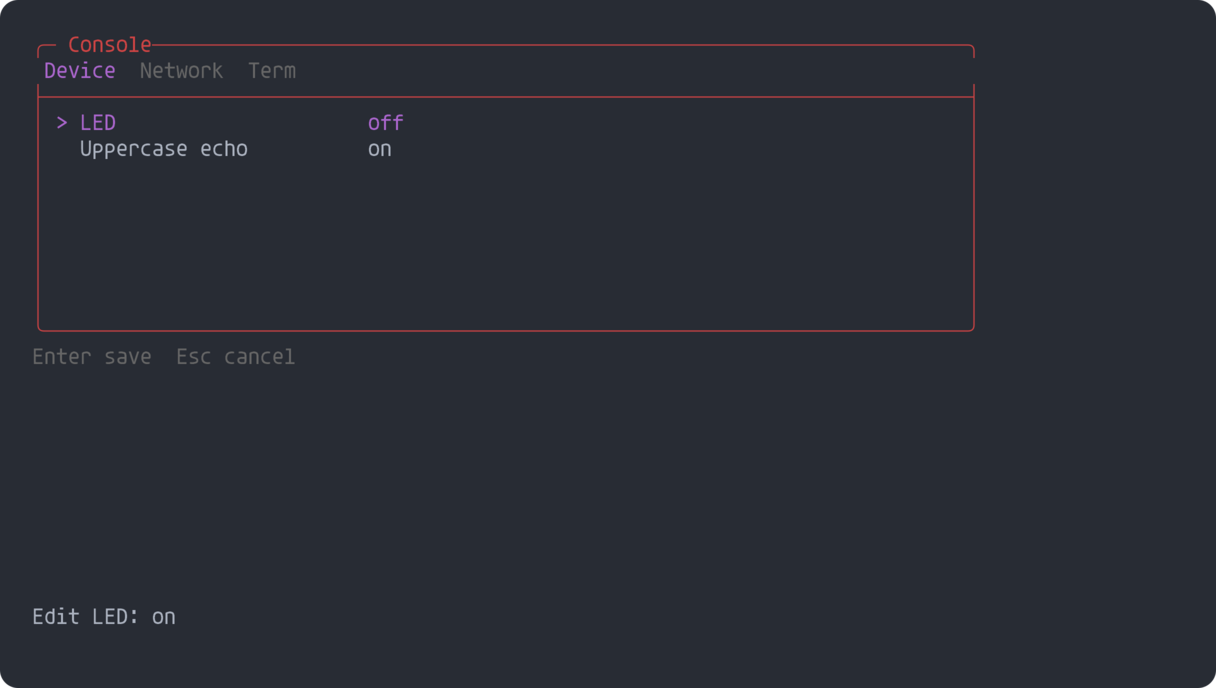
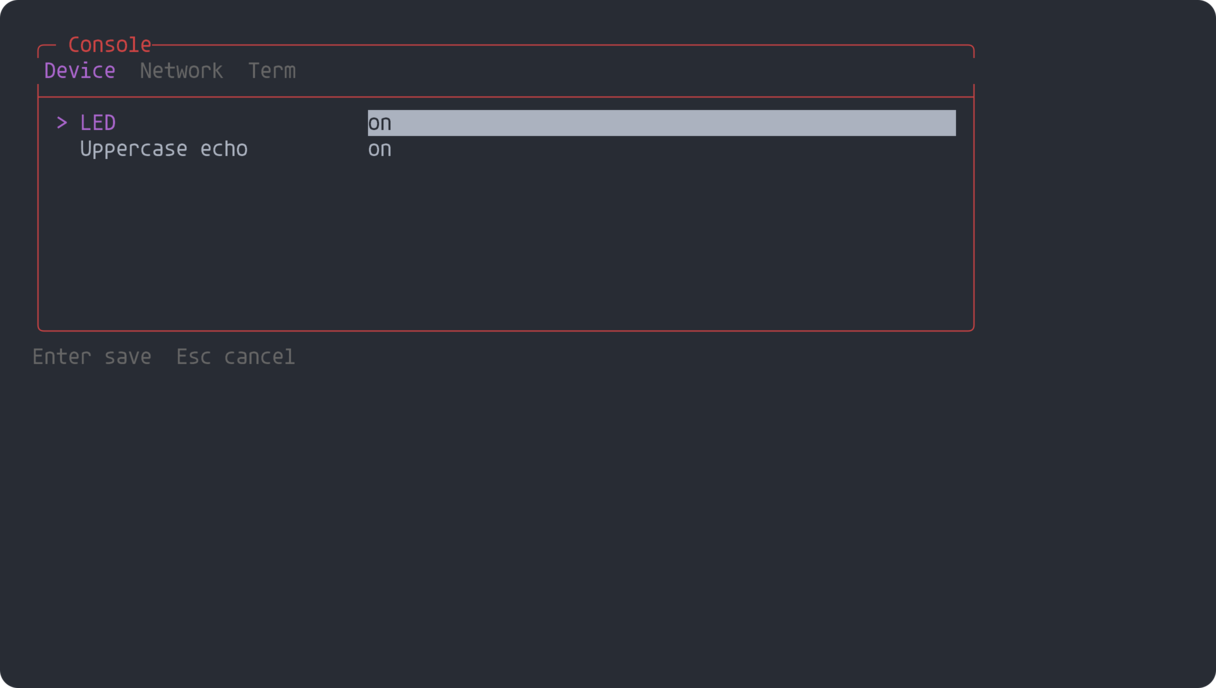
Use shared in-cell editing for the serial device console

Changed region(s): [[0.2812, 0.1526, 0.8125, 0.2137], [0.0312, 0.8852, 0.1562, 0.9157]]

diff --git a/SerialConsole/src/portable-shell/portable_device_view.hpp b/SerialConsole/src/portable-shell/portable_device_view.hpp
@@ -7,6 +7,9 @@
 #ifndef PS_DEVICE_VIEW_DIAGNOSTICS
 #define PS_DEVICE_VIEW_DIAGNOSTICS 1
 #endif
+#ifndef PS_DEVICE_VIEW_INLINE_EDIT
+#define PS_DEVICE_VIEW_INLINE_EDIT 1
+#endif
 // Allocation-free device presentation with filtering, deterministic state,
 // bounded rendering and sanitized text. The caller owns application behavior.
 // Snapshots are observations; only the caller's common router may authorize
@@ -330,7 +333,7 @@ class DeviceView {
         if (!dirty_ && !force)
             return false;
         dirty_ = false;
-        if (editing_ && !full_ && !force) {
+        if (editing_ && ansi_ && columns_ >= 40 && lines_ >= 16 && !full_ && !force) {
             editLine(write);
             return true;
         }
@@ -428,7 +431,10 @@ class DeviceView {
                     out.raw(row.editable ? "  " : "- ");
                     if (ansi_)
                         out.raw(selected ? "\x1b[1;35m" : "\x1b[0m");
-                    out.field(row.secret ? "[hidden]" : row.value, width - labelWidth - 9);
+                    if (PS_DEVICE_VIEW_INLINE_EDIT && editing_ && selected)
+                        editValue(out, width - labelWidth - 9);
+                    else
+                        out.field(row.secret ? "[hidden]" : row.value, width - labelWidth - 9);
                     if (ansi_)
                         out.raw("\x1b[0m");
                 } else
@@ -537,6 +543,14 @@ class DeviceView {
             out.raw("\x1b[0m");
         out.safe(notice_, width - 1);
         out.raw("\r\n");
+        if (PS_DEVICE_VIEW_INLINE_EDIT) {
+            if (ansi_) {
+                out.raw("\x1b[J");
+                if (editing_)
+                    editLine(write);
+            }
+            return true;
+        }
         if (ansi_) {
             out.raw("\x1b[J");
             char position[24];
@@ -873,6 +887,24 @@ class DeviceView {
         dirty_ = true;
         return false;
     }
+    size_t editCapacity() const {
+        const size_t width = columns_ < 40 ? 40 : columns_ > 100 ? 100 : columns_;
+        return width - (width < 60 ? 12 : 22) - 9;
+    }
+    size_t editStart(size_t capacity) const {
+        return cursor_ >= capacity ? cursor_ - capacity + 1 : 0;
+    }
+    template <typename Write> void editValue(Writer<Write> &out, size_t capacity) const {
+        const size_t length = ps_text_length(draft_), start = editStart(capacity);
+        char visible[101]{};
+        for (size_t i = 0; i < capacity && start + i < length; ++i)
+            visible[i] = secret_ ? '*' : draft_[start + i];
+        if (ansi_)
+            out.raw("\x1b[7m");
+        out.field(visible, capacity);
+        if (ansi_)
+            out.raw("\x1b[0m");
+    }
     template <typename Write> void editText(Writer<Write> &out) const {
         char label[19];
         terminalText(label, sizeof(label), editLabel_);
@@ -895,10 +927,28 @@ class DeviceView {
         }
     }
     unsigned editorRow() const {
+        if (PS_DEVICE_VIEW_INLINE_EDIT) {
+            const unsigned visible = page_ == Led ? (lines_ < 24 ? 1 : 4)
+                                      : lines_ < 24 ? 4 : 8;
+            return 4 + (selected_ < visible ? selected_ : visible - 1);
+        }
         return lines_ > 24 ? 23 : lines_ - 1;
     }
     template <typename Write> void editLine(Write write) const {
         Writer<Write> out(write, ansi_);
+        if (PS_DEVICE_VIEW_INLINE_EDIT) {
+            const unsigned column = (columns_ < 60 ? 12 : 22) + 7;
+            char position[24];
+            ps_terminal_format(position, sizeof(position), "\x1b[%u;%uH", editorRow(), column);
+            out.raw(position);
+            const size_t capacity = editCapacity();
+            editValue(out, capacity);
+            ps_terminal_format(position, sizeof(position), "\x1b[%u;%uH", editorRow(),
+                               column + static_cast<unsigned>(cursor_ - editStart(capacity)));
+            out.raw(position);
+            out.raw("\x1b[?25h");
+            return;
+        }
         if (ansi_) {
             char position[24];
             ps_terminal_format(position, sizeof(position), "\x1b[%u;1H\x1b[2K", editorRow());

diff --git a/tests/view_checks.cpp b/tests/view_checks.cpp
@@ -18,14 +18,29 @@ int main() {
 #else
     assert(out.find("\xe2\x86\x91/\xe2\x86\x93") != std::string::npos);
 #endif
+    out.clear(); feed(&s, "\r\025on");
+    assert(!led && writes == 0 && portable_console_ui.view.editing());
+#if PS_DEVICE_VIEW_INLINE_EDIT
+    assert(out.find("\033[4;29H") != std::string::npos && out.find("Edit LED:") == std::string::npos);
+#else
+    assert(out.find("Edit LED:") != std::string::npos);
+#endif
+    feed(&s, "\033"); portable_console_tick(&s, 35); portable_console_view_tick(&s);
+    assert(!led && writes == 0 && !portable_console_ui.view.editing());
     feed(&s, "\r\025on\r"); assert(led && writes == 1);
     feed(&s, "\t"); assert(portable_console_ui.view.page() == PortableShell::DeviceView::Network);
     feed(&s, "\r"); assert(writes == 1 && !portable_console_ui.view.editing());
     feed(&s, "\t"); assert(portable_console_ui.view.page() == PortableShell::DeviceView::TerminalPage);
     feed(&s, "\r\025off\r"); assert(!s.editor.upper && writes == 1);
-    feed(&s, "\033"); portable_console_tick(&s, 35); portable_console_view_tick(&s);
+    feed(&s, "\033"); portable_console_tick(&s, 70); portable_console_view_tick(&s);
     assert(s.mode == PS_CONSOLE_PROMPT && out.find("\033[?1049l") != std::string::npos);
     feed(&s, "plain\r"); out.clear(); feed(&s, "view\r");
     assert(out.find('\033') == std::string::npos);
+    out.clear(); feed(&s, "\r\025off");
+    assert(out.find('\033') == std::string::npos);
+#if PS_DEVICE_VIEW_INLINE_EDIT
+    assert(out.find("Edit LED:") == std::string::npos);
+#endif
+    assert(out.find("off") != std::string::npos && led && writes == 1);
     std::printf("SerialConsole view tabs/edit/exit checks passed; view=%u bytes\n", (unsigned)sizeof portable_console_ui);
 }

diff --git a/VALIDATION.md b/VALIDATION.md
@@ -1,5 +1,19 @@
 # Integration evidence — 2026-10-29
 
+## 2.2 in-cell editing
+
+The shared device view now edits values inside the selected table cell. Drafts
+are highlighted, horizontally bounded and preserved across resize; Enter applies
+and Esc cancels. The console regression checks send actual key bytes and verify
+that no LED write occurs before acceptance or on cancellation. Plain rendering
+also updates the table value without escape codes. Six native suites pass.
+
+The optional previous footer layout remains behind `PS_DEVICE_VIEW_INLINE_EDIT=0`.
+The updated edit preview is a replay of emitted bytes with a simulated LED, not
+physical board evidence. Mega2560 with the view builds at 22,014 flash / 2,735
+static RAM bytes; STM32F103C8 with the view builds at 26,148 / 2,224 bytes.
+These remain linker measurements rather than physical stack measurements.
+
 ## 2.1 semantic naming update
 
 The active implementation now uses `portable_console_*` / `PS_CONSOLE_*` and

diff --git a/README.md b/README.md
@@ -76,6 +76,10 @@ prompt. Uppercase echo transforms display only. Input editing is ASCII; the
 renderer can emit Unicode borders/key symbols. History is bounded and uses the
 shared credential-filtering policy. The view stages edits until Enter; Esc
 cancels. Only explicit accepted actions reach the GPIO callback.
+Editable values now use highlighted cells inside the table. Typing does not
+actuate hardware; Enter applies, and Esc cancels the draft. Long values scroll
+within their cells. Define `PS_DEVICE_VIEW_INLINE_EDIT=0` to select the older
+below-table layout when integrating the shared view.
 
 Custom callbacks are registered in the sketch's immutable `commands[]`. They
 can override built-ins and receive up to eight parsed arguments, including argv0.
